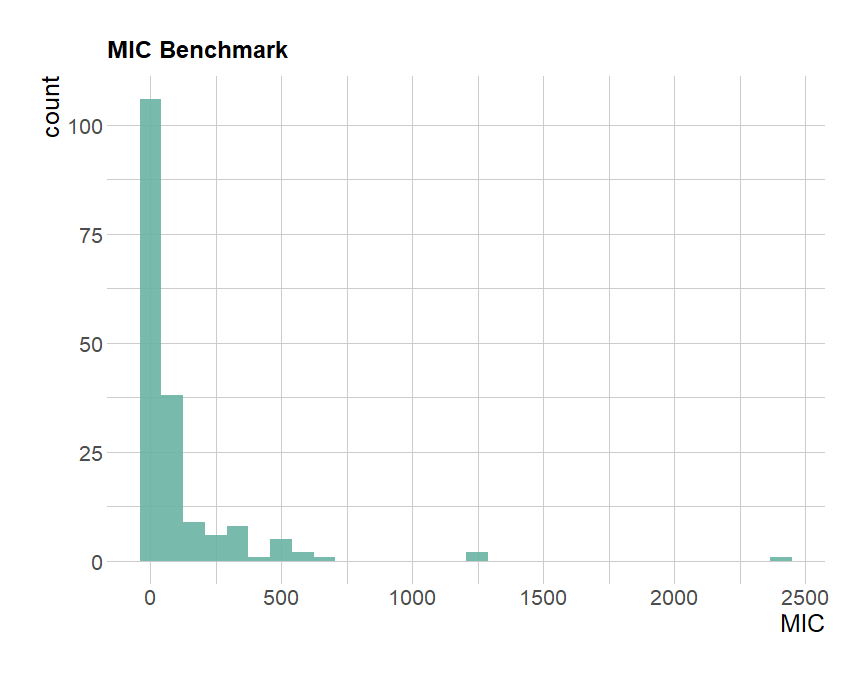
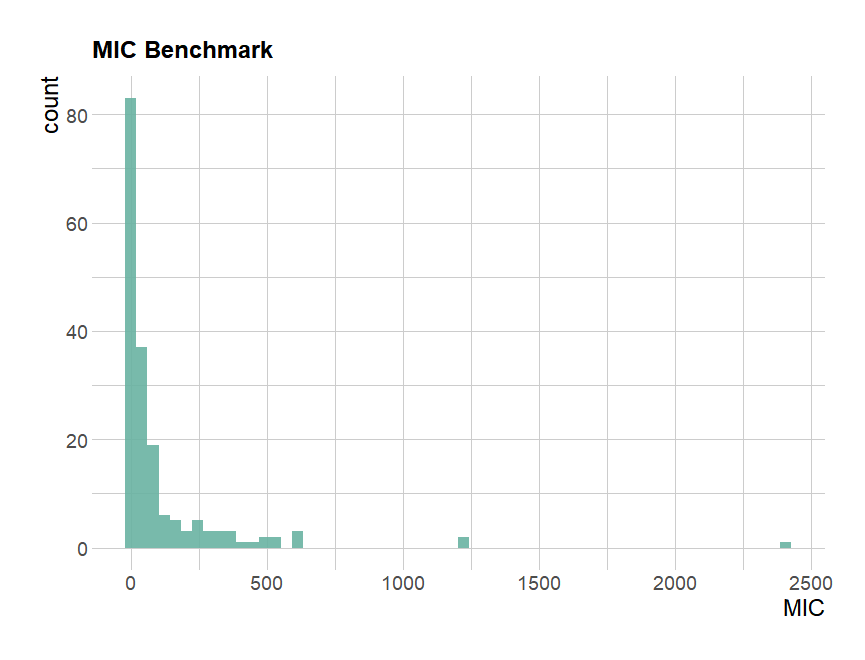
Change figures of benchmark and add benchmark with pf = 0.5

diff --git a/Thesis/sections/5.Experiments.tex b/Thesis/sections/5.Experiments.tex
@@ -746,7 +746,7 @@ We have analyzed a total of $299$ direct dependencies and $470$ transitive depen
 \begin{figure}[ht!]
 \begin{center}
   \includegraphics[width=0.7\textwidth]{figures/benchmark/MIC_benchmark.png}
-  \caption{Histogram \texttt{MIC} benchmark}
+  \caption{Histogram \texttt{MIC} benchmark, 60 bins}
   \label{fig:MIC-benchmark}
 \end{center}
 \end{figure}
@@ -754,17 +754,17 @@ We have analyzed a total of $299$ direct dependencies and $470$ transitive depen
 \begin{figure}[ht!]
 \begin{center}
 \includegraphics[width=0.7\textwidth]{figures/benchmark/AC_benchmark.png}
-\caption{Histogram \texttt{AC} benchmark}
+\caption{Histogram \texttt{AC} benchmark, 60 bins}
 \label{fig:AC-benchmark}
 \end{center}
 \end{figure}
 
-For the transitive metrics, namely \texttt{TMIC} and \texttt{TAC}, we have calculated the benchmarking with two different values for the \textit{propagation factor}: $1$ and $0.1$. The histogram of the benchmarks for metrics \texttt{TMIC} and \texttt{TAC} with propagation factor $1$ and $0.1$, can be found in Figures \ref{fig:TMIC-benchmark-1}, \ref{fig:TAC-benchmark-1}, \ref{fig:TMIC-benchmark-0.1} and \ref{fig:TAC-benchmark-0.1}, respectively.
+For the transitive metrics, namely \texttt{TMIC} and \texttt{TAC}, we have calculated the benchmarking with different values for the \textit{propagation factor}. The histogram of the benchmarks for metrics \texttt{TMIC} and \texttt{TAC} with propagation factor $1$, $0.5$, and $0.1$, can be found in Figures \ref{fig:TMIC-benchmark-1}, \ref{fig:TAC-benchmark-1}, \ref{fig:TMIC-benchmark-0.5} and \ref{fig:TAC-benchmark-0.5}, \ref{fig:TMIC-benchmark-0.1}, and \ref{fig:TAC-benchmark-0.1}, respectively.
 
 \begin{figure}[ht!]
 \begin{center}
   \includegraphics[width=0.7\textwidth]{figures/benchmark/TMIC_PF_1.png}
-  \caption{Histogram \texttt{TMIC} benchmark, propagation factor = 1}
+  \caption{Histogram \texttt{TMIC} benchmark, propagation factor = 1, 60 bins}
   \label{fig:TMIC-benchmark-1}
 \end{center}
 \end{figure}
@@ -772,15 +772,31 @@ For the transitive metrics, namely \texttt{TMIC} and \texttt{TAC}, we have calcu
 \begin{figure}[ht!]
 \begin{center}
 \includegraphics[width=0.7\textwidth]{figures/benchmark/TAC_PF_1.png}
-\caption{Histogram \texttt{TAC} benchmark, propagation factor = 1}
+\caption{Histogram \texttt{TAC} benchmark, propagation factor = 1, 60 bins}
 \label{fig:TAC-benchmark-1}
 \end{center}
 \end{figure}
 
 \begin{figure}[ht!]
 \begin{center}
+  \includegraphics[width=0.7\textwidth]{figures/benchmark/TMIC_PF_0.5.png}
+  \caption{Histogram \texttt{TMIC} benchmark, propagation factor = 0.5, 60 bins}
+  \label{fig:TMIC-benchmark-0.5}
+\end{center}
+\end{figure}
+
+\begin{figure}[ht!]
+\begin{center}
+\includegraphics[width=0.7\textwidth]{figures/benchmark/TAC_PF_0.5.png}
+\caption{Histogram \texttt{TAC} benchmark, propagation factor = 0.5, 60 bins}
+\label{fig:TAC-benchmark-0.5}
+\end{center}
+\end{figure}
+
+\begin{figure}[ht!]
+\begin{center}
   \includegraphics[width=0.7\textwidth]{figures/benchmark/TMIC_PF_0.1.png}
-  \caption{Histogram \texttt{TMIC} benchmark, propagation factor = 0.1}
+  \caption{Histogram \texttt{TMIC} benchmark, propagation factor = 0.1, 60 bins}
   \label{fig:TMIC-benchmark-0.1}
 \end{center}
 \end{figure}
@@ -788,7 +804,7 @@ For the transitive metrics, namely \texttt{TMIC} and \texttt{TAC}, we have calcu
 \begin{figure}[ht!]
 \begin{center}
 \includegraphics[width=0.7\textwidth]{figures/benchmark/TAC_PF_0.1.png}
-\caption{Histogram \texttt{TAC} benchmark, propagation factor = 0.1}
+\caption{Histogram \texttt{TAC} benchmark, propagation factor = 0.1, 60 bins}
 \label{fig:TAC-benchmark-0.1}
 \end{center}
 \end{figure}
@@ -800,11 +816,13 @@ Finally, we also generated 70th, 80th, and 90th percentiles of each of the metri
     \begin{tabular}{|r|l|l|l|}
     \hline
     \backslashbox{\textbf{Metric}}{\textbf{Percentile}} & \textbf{70th} & \textbf{80th} & \textbf{90th} \\ \hline\hline
-    \textbf{MIC} & 79 & 118.8 & 305.4 \\ \hline
-    \textbf{AC} & 21.5 & 35 & 61 \\ \hline
-    \textbf{TMIC (PF = 1)} & 59.5 & 129 & 215 \\ \hline
-    \textbf{TAC (PF = 1)} & 19.5 & 24 & 56 \\ \hline
-    \textbf{TMIC (PF = 0.1)} & 11.4015 & 33 & 105.7 \\ \hline
+    \textbf{MIC} & 79.00 & 118.80 & 305.40 \\ \hline
+    \textbf{AC} & 21.50 & 35.00 & 61.00 \\ \hline
+    \textbf{TMIC (PF = 1)} & 59.50 & 129.00 & 215.00 \\ \hline
+    \textbf{TAC (PF = 1)} & 19.50 & 24.00 & 56.00 \\ \hline
+    \textbf{TMIC (PF = 0.5)} & 30.37 & 87.00 & 141.87 \\ \hline
+    \textbf{TAC (PF = 0.5)} & 10.50 & 12.25 & 39.12 \\ \hline
+    \textbf{TMIC (PF = 0.1)} & 11.40 & 33.00 & 105.70 \\ \hline
     \textbf{TAC (PF = 0.1)} & 7.35 & 7.77 & 25.15 \\ \hline
     \end{tabular}
     \end{center}
@@ -817,7 +835,7 @@ Finally, we also generated 70th, 80th, and 90th percentiles of each of the metri
 
 In the results of all the metrics, one can see that the majority of the values are the lowest ones. In other words, many dependencies are loosely coupled, while there are a few which are highly coupled. Also, it is possible to observe a difference in the values of the metrics measuring method invocation coupling (\texttt{MIC} and \texttt{TMIC}), with those measuring aggregation coupling - namely \texttt{AC} and \texttt{TAC}. The method invocation metrics generally have higher values. This can also be intuitively perceived: for each field declared, multiple method calls can occur.
 
-When comparing the results of the metrics \texttt{TMIC} and \texttt{TAC} with different values of \textit{propagation factor}, the comparison is not exactly as it could be intuitively expected. In Figures \ref{fig:TMIC-benchmark-1} and \ref{fig:TMIC-benchmark-0.1} we can see the benchmark of \texttt{TMIC} with \textit{propagation factor} $1$ and $0.1$, respectively. Given that one \textit{propagation factor} is 10 times smaller than the first one, we would expect the results of the metrics to be 10 times smaller as well. However, we can see that on the right side of the plot; there is at least one dependency with \texttt{TMIC} around $5000$ for both \textit{propagation factors}. We looked at the values measured to understand why this happened. The dependency has two distances at which coupling is measured: 1 and 2. These distances have a coupling of 4958 and 11, respectively. Following the equation \ref{eqn:tmic}, since the \textit{propagation factor} is used to the power of $\verb|distance| - 1$, it is not applied when distance is 1. This is also consistent with the fact that distance 1 means that the server library is, in this case, a direct dependency, and therefore there is no mitigation of the coupling. Hence, that is why this value appears with both \textit{propagation factors} because it is only applied for distance 2, which has a small value, in comparison with distance 1. The same scenario can be seen in the case of \texttt{TAC} (Figures \ref{fig:TAC-benchmark-1} and \ref{fig:TAC-benchmark-0.1}).
+When comparing the results of the metrics \texttt{TMIC} and \texttt{TAC} with different values of \textit{propagation factor}, the comparison is not exactly as it could be intuitively expected. In Figures \ref{fig:TMIC-benchmark-1} and \ref{fig:TMIC-benchmark-0.1} we can see the benchmark of \texttt{TMIC} with \textit{propagation factor} $1$ and $0.1$, respectively. Given that one \textit{propagation factor} is 10 times smaller than the other one, we would expect the results of the metrics to be 10 times smaller as well. However, we can see that on the right side of the plot; there is at least one dependency with \texttt{TMIC} around $5000$ for both \textit{propagation factors}. We looked at the values measured to understand why this happened. The dependency has two distances at which coupling is measured: 1 and 2. These distances have a coupling of 4958 and 11, respectively. Following the equation \ref{eqn:tmic}, since the \textit{propagation factor} is used to the power of $\verb|distance| - 1$, it is not applied when distance is 1. This is also consistent with the fact that distance 1 means that the server library is, in this case, a direct dependency, and therefore there is no mitigation of the coupling. Hence, that is why this value appears with both \textit{propagation factors} because it is only applied for distance 2, which has a small value, in comparison with distance 1. The same scenario can be seen in the case of \texttt{TAC} (Figures \ref{fig:TAC-benchmark-1} and \ref{fig:TAC-benchmark-0.1}).
 
 
 
@@ -833,6 +851,8 @@ In Table \ref{table:percentiles}, there are the 70th, 80th, and 90th percentiles
     TMIC (PF = 1) & \textless 59.5 & \textless 129 & \textless 215 & \textgreater 215 \\ \hline
     TAC (PF = 1) & \textless 19.5 & \textless 24 & \textless 56 & \textgreater 56 \\ \hline
     TMIC (PF = 0.1) & \textless 11.4015 & \textless 33 & \textless 105.7 & \textgreater 105.7 \\ \hline
+    TMIC (PF = 0.5) & \textless 30.37 & \textless 87.00 & \textless 141.87 & \textgreater \textgreater 141.87 \\ \hline
+    TAC (PF = 0.5) & \textless 10.50 & \textless 12.25 & \textless 39.12 & \textgreater 39.12 \\ \hline
     TAC (PF = 0.1) & \textless 7.35 & \textless 7.77 & \textless 25.15 & \textgreater 25.15 \\ \hline
     \end{tabular}
     \end{center}
